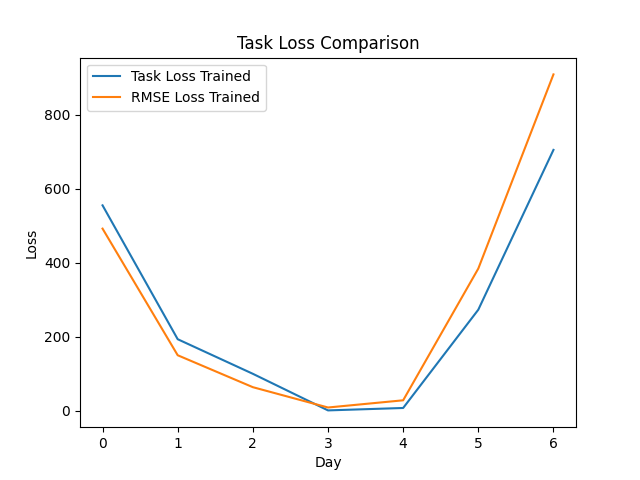
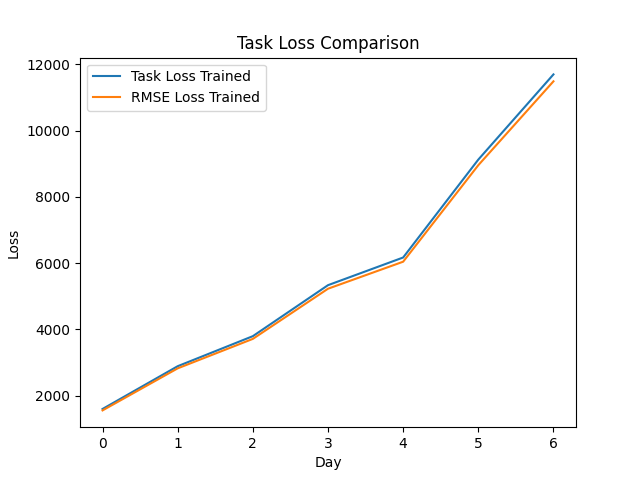
Added CalibNN to predict beta

diff --git a/new_nets.py b/new_nets.py
@@ -52,16 +52,27 @@ def eval_net(which, variables, params, save_folder, loss_func):
         return func
 
     func = model_classes.ODEFunc()
+    #initialize the calib NN, and we set a 
+    calib = model_classes.CalibrationNN()
+    x = torch.tensor([1.0], device=DEVICE)
+
+
     # func.set_beta(0.5)
-    y0 = torch.tensor([1938000.0 - 516.0, 0.0, 500.0, 5.0, 0.0, 0.0, 0.0, 5.0, 6.0, 0.0], dtype=torch.float32)
-    ode_params = func.parameters()
-    opt = optim.Adam(ode_params, lr=1e-3)
+    y0 = torch.tensor([1938000.0 - 10031.0, 0.0, 10000.0, 20.0, 0.0, 0.0, 0.0, 5.0, 6.0, 0.0], dtype=torch.float32)
+    # ode_params = list(func.parameters())
+    calib_params = list(calib.parameters())
+    opt = optim.Adam(calib.parameters(), lr=1e-3)
 
 
     for i in range(1000):
         func.train()
+        calib.train()
         func.reset_t()
         opt.zero_grad()
+
+        beta = calib(x)
+        print(beta)
+        func.set_beta(beta)
         Y_sched_train = odeint(func, y0, torch.linspace(0, len(variables['Y_train']), len(variables['Y_train'])), method='rk4')
         Y_sched_train_total_hospitalizations = (Y_sched_train[:, [6]] + Y_sched_train[:, [7]])
         # print("you are here")
@@ -74,14 +85,17 @@ def eval_net(which, variables, params, save_folder, loss_func):
         
         # print(Y_sched_train)
         train_loss.backward()
-        torch.nn.utils.clip_grad_norm_(ode_params, 1e-1)
+        torch.nn.utils.clip_grad_norm_(calib.parameters(), 1e-1)
         opt.step()
         # print('beta:', func.beta)
         # print("you are here")
 
 
     func.eval()
+    calib.eval()
     func.reset_t()
+    beta = calib(x)
+    func.set_beta(beta)
     Y_sched_test = odeint(func, y0, torch.linspace(0, len(variables['Y_test']) + len(variables['Y_train']), len(variables['Y_test']) + len(variables['Y_train'])), method='rk4')
     Y_sched_test_new = Y_sched_test[len(variables['Y_train']):]
     Y_sched_test_total_hospitalizations = Y_sched_test_new[:, 6] + Y_sched_test_new[:, 7]

diff --git a/model_classes.py b/model_classes.py
@@ -266,11 +266,12 @@ class ODEFunc(nn.Module):
         self.lambdas = 1/5.5
         self.rhor = 1/15
         self.rhod = 1/13.3
-        self.beta = nn.Parameter(torch.tensor(0.4,device=DEVICE))
+        #Don't need nn.parameter anymore
+        self.beta = 0.4
         self.t = 0
 
     def set_beta(self,beta):
-        self.beta = nn.Parameter(torch.tensor(beta,device=DEVICE))
+        self.beta = beta
 
     def forward(self,t,y):
         """defining y0 etc, y is a vector 10, one dimension is 10, another dimension is time
@@ -334,6 +335,24 @@ class ODEFunc(nn.Module):
     
     def reset_t(self):
         self.t = 0
+
+class CalibrationNN(nn.Module):
+    def __init__(self):
+        super(CalibrationNN, self).__init__()
+        self.fc1 = nn.Linear(1, 64)
+        self.fc2 = nn.Linear(64, 32)
+        self.fc3 = nn.Linear(32, 1)
+        self.min_value = 0.0
+        self.max_value = 1.0
+        self.sigmoid = nn.Sigmoid()
+
+
+    def forward(self, x):
+        x = torch.relu(self.fc1(x))
+        x = torch.relu(self.fc2(x))
+        beta = self.fc3(x)
+        out = self.min_value + (self.max_value-self.min_value)*self.sigmoid(beta)
+        return beta
 
 
 import numpy as np
